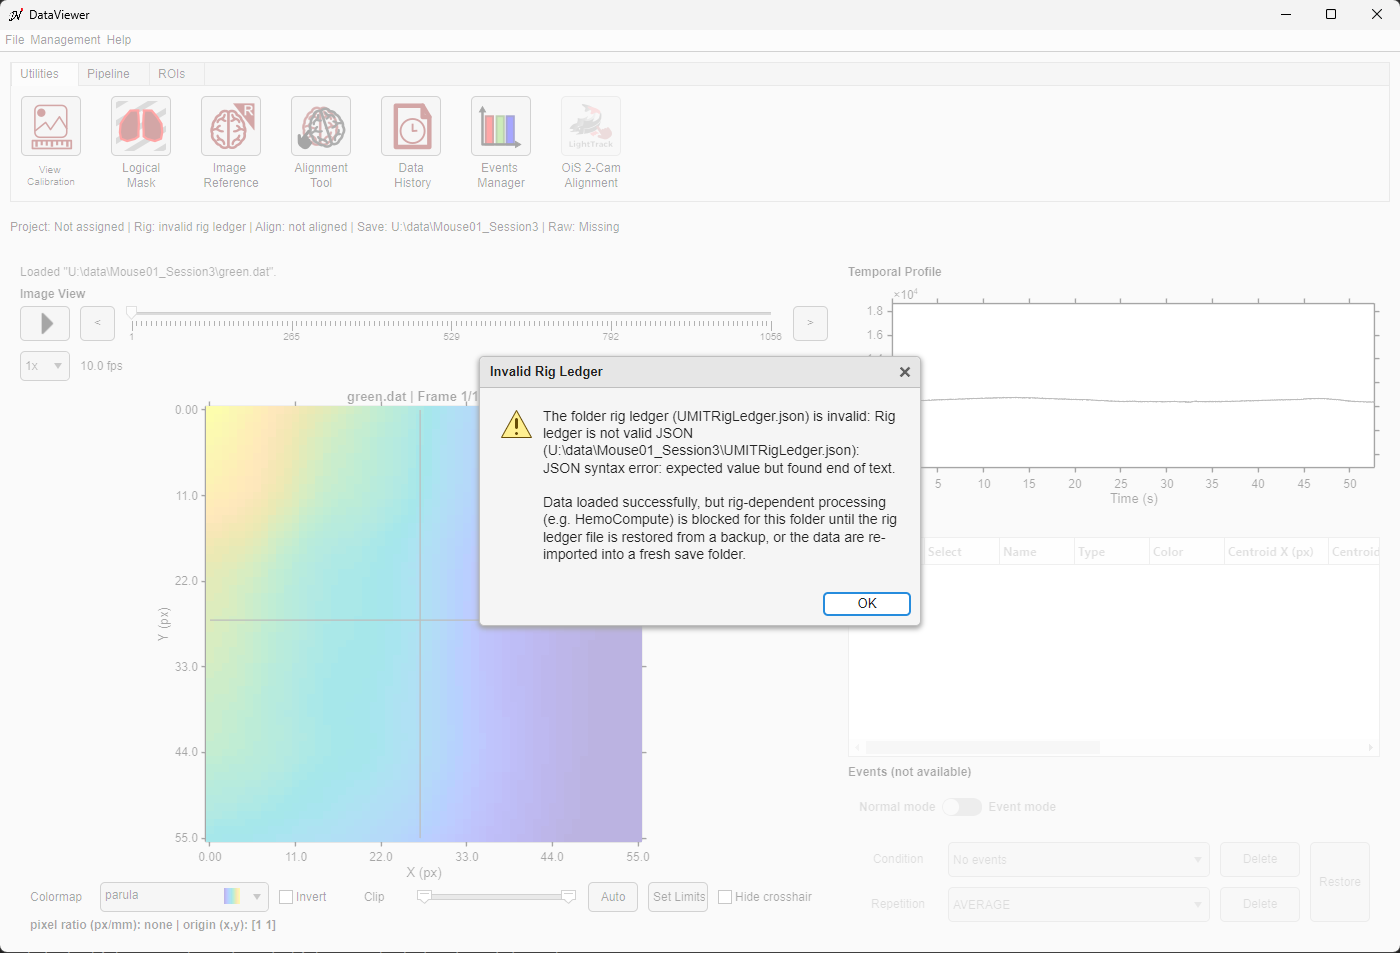
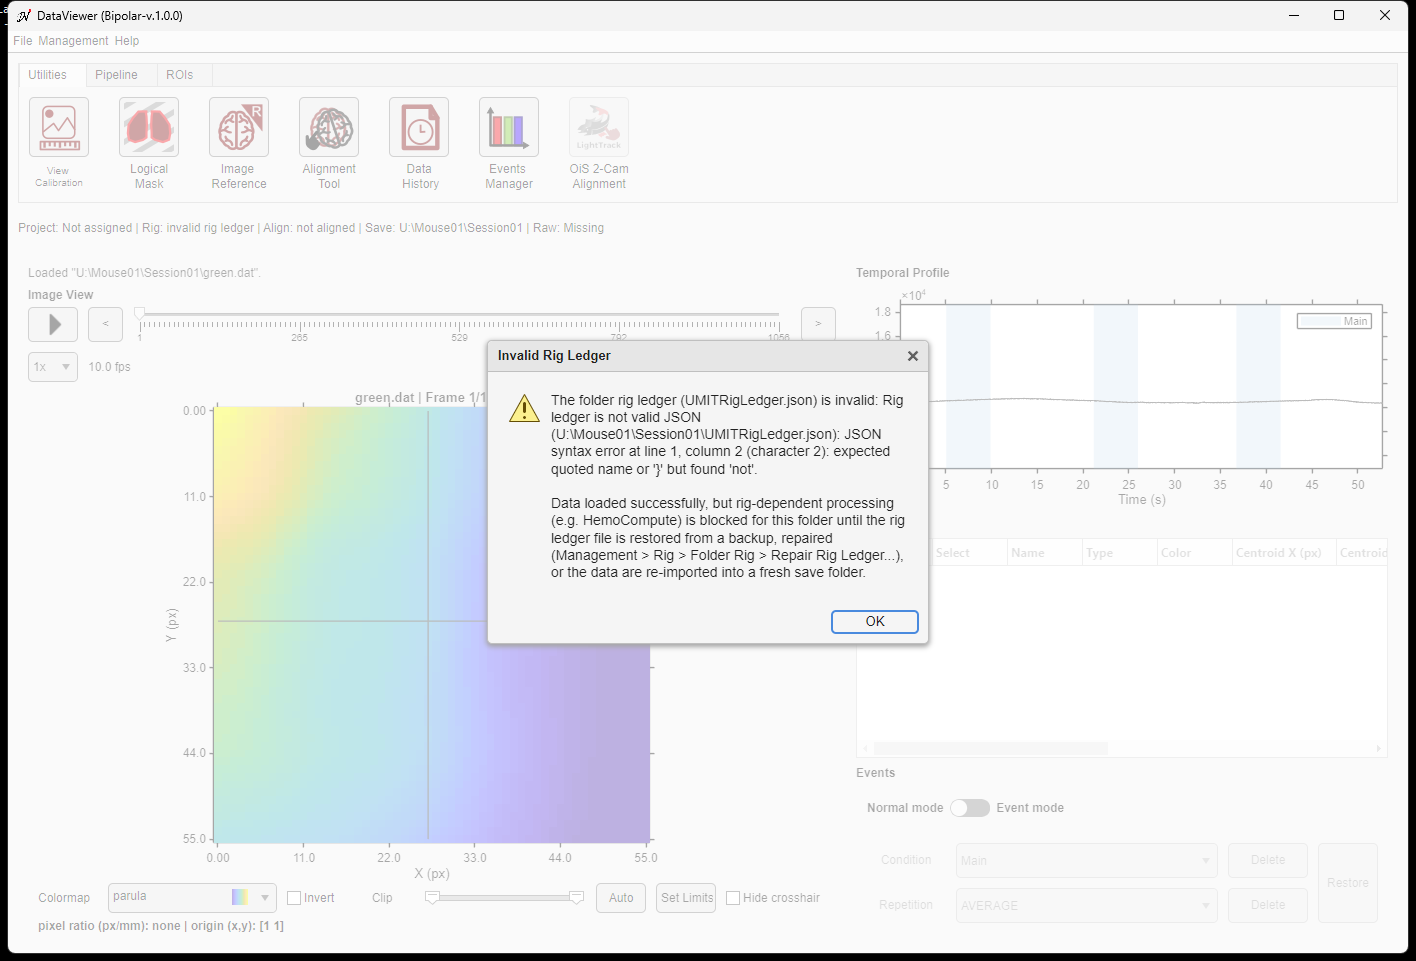
docs(userdocs): document the Repair Rig Ledger workflow
Describe how to repair an invalid folder rig ledger from DataViewer
(Management > Rig > Folder Rig > Repair Rig Ledger...): the three ways
out of an invalid ledger, the dialog, the renamed UMITRigLedger.invalid_*
file, and what a repair loses. Update the Folder Rig command table, the
DataViewer menu table, the HemoCompute and metadata-file pages, and drop
the statement that there is no repair tool.

New screenshot of the dialog; the invalid-ledger alert and the two
Folder Rig submenu screenshots are retaken because the alert wording
changed and the submenu has a fourth item.

diff --git a/docs/documentation/userDocs/apps/folder-rig.html b/docs/documentation/userDocs/apps/folder-rig.html
@@ -21,10 +21,11 @@ nav_order: 7
 <tr><td><samp>[had conflict]</samp></td><td>A permanent mark: the folder had a rig conflict at some point. The details are in the Rig Ledger History.</td></tr>
 <tr><td><samp>invalid rig ledger</samp></td><td>The ledger file is damaged or was edited by hand (see below).</td></tr></table>
 <h2>Management &gt; Rig &gt; Folder Rig</h2>
-<p style="text-align:center"><img src="../../assets/img/current/dataviewer-folder-rig-menu-conflict.png" alt="DataViewer Management, Rig, Folder Rig submenu with Bind / Rebind Rig, Acknowledge Rig Conflict and Rig Ledger History, on a conflicted folder" width="880"><br><em>The Folder Rig submenu on a folder in conflict: all three commands are available.</em></p>
+<p style="text-align:center"><img src="../../assets/img/current/dataviewer-folder-rig-menu-conflict.png" alt="DataViewer Management, Rig, Folder Rig submenu with Bind / Rebind Rig, Acknowledge Rig Conflict, Repair Rig Ledger and Rig Ledger History, on a conflicted folder" width="880"><br><em>The Folder Rig submenu on a folder in conflict: Bind / Rebind Rig, Acknowledge Rig Conflict and Rig Ledger History are available; Repair Rig Ledger is greyed out because the ledger is valid.</em></p>
 <table><tr><th>Command</th><th>Available when</th><th>Effect</th></tr>
 <tr><td><strong>Bind / Rebind Rig...</strong></td><td>Data are loaded</td><td>Binds the folder to a rig of the library, or changes its rig (see below).</td></tr>
 <tr><td><strong>Acknowledge Rig Conflict...</strong></td><td>The folder is in conflict</td><td>Accepts the current rig for the folder (see below).</td></tr>
+<tr><td><strong>Repair Rig Ledger...</strong></td><td>The rig ledger is invalid</td><td>Moves the invalid ledger file aside so that a rig can be bound again (see <a href="#invalid-rig-ledger">Invalid rig ledger</a>).</td></tr>
 <tr><td><strong>Rig Ledger History...</strong></td><td>The folder has a rig ledger</td><td>Shows every event recorded in the ledger, read-only.</td></tr></table>
 <h3>Bind or rebind a rig</h3>
 <ol>
@@ -47,7 +48,21 @@ nav_order: 7
 <h3>Rig Ledger History</h3>
 <p>The history lists the folder, its state and bound rig, then one line per event: <samp>noRig</samp> (imported without a rig), <samp>bind</samp>, <samp>rebind</samp> (with what changed in the optics and the coregistration), <samp>commit</samp> (which part was committed, and by which step), <samp>conflict</samp>, <samp>acknowledgeConflict</samp> (with its comment) and <samp>freshImport</samp> (a re-import reset the commitments). Rigs are named as they were recorded, so the history reads the same on a computer whose library does not have them.</p>
 <p style="text-align:center"><img src="../../assets/img/current/dataviewer-rig-ledger-history.png" alt="Rig Ledger History dialog listing bind, commit, rebind, conflict and acknowledgeConflict events" width="880"><br><em>The history of a folder that was bound to Rig A, used by HemoCompute, rebound to Rig B and acknowledged.</em></p>
-<h3>Invalid rig ledger</h3>
-<p>If the ledger file is damaged or was edited by hand, <em>DataViewer</em> still loads the data and shows the alert <strong>Invalid Rig Ledger</strong>. Rig-dependent processing (for example <em>HemoCompute</em>) is then refused for the folder. There is no repair tool: restore <samp>UMITRigLedger.json</samp> from a backup, or re-import the raw data into a fresh Save Folder.</p>
+<h3 id="invalid-rig-ledger">Invalid rig ledger</h3>
+<p>If the ledger file is damaged or was edited by hand, <em>DataViewer</em> still loads the data and shows the alert <strong>Invalid Rig Ledger</strong>. Rig-dependent processing (for example <em>HemoCompute</em>) is then refused for the folder, and so is a new import into the same Save Folder. You have three ways out:</p>
+<ul>
+<li>restore <samp>UMITRigLedger.json</samp> from a backup copy of the folder;</li>
+<li>re-import the raw data into a fresh Save Folder;</li>
+<li>repair the ledger with <strong>Management &gt; Rig &gt; Folder Rig &gt; Repair Rig Ledger...</strong> (below).</li>
+</ul>
 <p style="text-align:center"><img src="../../assets/img/current/dataviewer-invalid-rig-ledger-alert.png" alt="DataViewer Invalid Rig Ledger alert saying that data loaded but rig-dependent processing is blocked" width="880"><br><em>The alert shown when the folder's rig ledger cannot be read.</em></p>
+<h3>Repair a rig ledger</h3>
+<p>While the ledger is invalid, <strong>Repair Rig Ledger...</strong> is the only enabled command of the Folder Rig submenu: <em>Bind / Rebind Rig</em>, <em>Acknowledge Rig Conflict</em> and <em>Rig Ledger History</em> need a readable ledger and are disabled. The command opens a dialog that lists what is wrong with the file, what repairing does, what is lost, and the other options.</p>
+<p style="text-align:center"><img src="../../assets/img/current/dataviewer-repair-rig-ledger-dialog.png" alt="Repair Rig Ledger dialog listing the integrity problem, what repairing does, what is lost and the other options, with Repair and Cancel buttons" width="600"><br><em>The Repair Rig Ledger dialog for a ledger that is not valid JSON.</em></p>
+<ol>
+<li>Read the problem and the consequences, then choose <strong>Repair</strong> (or <strong>Cancel</strong>: nothing changes).</li>
+<li>The invalid file is <em>renamed</em>, in the same folder, to <samp>UMITRigLedger.invalid_&lt;date&gt;T&lt;time&gt;.json</samp>. Nothing is edited or deleted: the file is kept as it was, byte for byte, and a later repair never overwrites it. A new import into the folder does not delete it either.</li>
+<li>The folder now has no rig ledger: its rig is <samp>unknown (no rig ledger)</samp>. Bind a rig again with <strong>Bind / Rebind Rig...</strong>; this starts a new ledger with a fresh history.</li>
+</ol>
+<div class="warnnote"><p><strong>What a repair loses</strong><br>The folder loses its rig commitments (the optics, camera coregistration and filter sets it had used) and its conflict history. Results computed before are not recomputed, and a change of rig made while the ledger was invalid cannot be detected for them. If the folder matters for a publication, restore the ledger from a backup instead.</p></div>
 </body></html>

diff --git a/docs/documentation/userDocs/other/mat-files-organization.html b/docs/documentation/userDocs/other/mat-files-organization.html
@@ -67,7 +67,7 @@ nav_order: 2
 <li><b>Events</b>: an append-only list of what happened to the folder: imported without a rig, bound or rebound to a rig, a part committed by its first use, a conflict, an acknowledged conflict, a fresh import. Entries are never removed or rewritten. The <a href="../apps/folder-rig.html">Rig Ledger History</a> shows them.</li>
 </ul>
 <p>The folder states read from the ledger are: no ledger (<em>unknown</em>), <em>no rig</em>, bound (with or without committed parts), <em>conflict</em>, and <em>invalid</em>. They are explained in <a href="../apps/folder-rig.html">DataViewer: Folder rig</a>. Reading the ledger never changes it; opening data does not create one.</p>
-<div class="warnnote"><p><strong>Never edit UMITRigLedger.json by hand</strong><br>Every snapshot is checked against its content when the ledger is read. An edited or damaged ledger is <em>invalid</em>: the data still open, but rig-dependent processing is refused for the folder. There is no repair tool. Restore the file from a backup, or re-import the raw data into a fresh Save Folder. An import into the same folder is refused while its rig ledger is invalid.</p></div>
+<div class="warnnote"><p><strong>Never edit UMITRigLedger.json by hand</strong><br>Every snapshot is checked against its content when the ledger is read. An edited or damaged ledger is <em>invalid</em>: the data still open, but rig-dependent processing is refused for the folder. Restore the file from a backup, re-import the raw data into a fresh Save Folder, or use <a href="../apps/folder-rig.html#invalid-rig-ledger">Repair Rig Ledger</a> in <em>DataViewer</em>, which moves the invalid file aside as <samp>UMITRigLedger.invalid_&lt;date&gt;T&lt;time&gt;.json</samp> (kept unchanged) so that a rig can be bound again; the folder then loses its rig commitments. An import into the same folder is refused while its rig ledger is invalid.</p></div>
 
 <h2 id="umitprojectledger-json">UMITProjectLedger.json</h2>
 <p>A folder bound to a project keeps a project ledger, a JSON text file with the folder's binding (project, subject and session identifiers and the folder role, <samp>rawDataFolder</samp> or <samp>processedDataFolder</samp>) and an append-only list of binding events: bind, rebind, unbind (with its reason, for example the session was removed), orphan removal and fresh import. Each bind or rebind keeps a copy of the project's names at that time, so the history reads the same when the project is not available. The file stays when a folder is unbound, so its history survives; such a folder reads as unbound.</p>

diff --git a/docs/documentation/userDocs/fcns/HemoCompute.html b/docs/documentation/userDocs/fcns/HemoCompute.html
@@ -61,7 +61,7 @@ grand_parent: Functions
       <li>has no rig ledger (<samp>Umitoolbox:RigLedger:noLedger</samp>), for example a folder imported by an earlier release;</li>
       <li>is recorded as "no rig" (<samp>Umitoolbox:RigLedger:noRigBound</samp>), for example a single-camera import that was never bound;</li>
       <li>is in a rig conflict (<samp>Umitoolbox:RigLedger:conflicted</samp>);</li>
-      <li>has an invalid rig ledger (<samp>Umitoolbox:RigLedger:invalidLedger</samp>).</li>
+      <li>has an invalid rig ledger (<samp>Umitoolbox:RigLedger:invalidLedger</samp>); see <a href="../apps/folder-rig.html#invalid-rig-ledger">Invalid rig ledger</a> for the ways out, including <em>Repair Rig Ledger</em>.</li>
     </ul>
     <p>The error message says why the folder was refused and how to fix it: bind a rig with <a href="../apps/folder-rig.html">DataViewer's Management &gt; Rig &gt; Folder Rig</a> menu, resolve the conflict there, or start again from a fresh save folder. A pipeline runs the same checks before it starts (preflight): a folder that fails them is skipped and logged, and the other folders are processed.</p>
     <p>After a successful computation, HemoCompute <b>commits</b> the optics and the filter set it used to the folder's rig ledger (the first time only). From then on the folder keeps using those optics: rebinding it to a rig whose optics differ creates a rig conflict, and editing the filter set in the rig library under the same name makes HemoCompute refuse the folder (<samp>Umitoolbox:RigLedger:filterSetModified</samp>; save the edited filter set under a new name instead). Editing or archiving the library rig afterwards has no effect on the folder.</p>

diff --git a/docs/documentation/userDocs/apps/user-interface.html b/docs/documentation/userDocs/apps/user-interface.html
@@ -30,6 +30,7 @@ nav_order: 2
 <tr><td><strong>Management &gt; Project &gt; Add Folder Reference to Library...</strong></td><td>The folder is bound to a project session</td><td>Offers to add the folder's alignment reference to the subject's reference library.</td></tr>
 <tr><td><strong>Management &gt; Rig &gt; Folder Rig &gt; Bind / Rebind Rig...</strong></td><td>Data is loaded</td><td>Binds the Save Folder to a rig of the library, or changes its rig. See <a href="folder-rig.html">Folder rig</a>.</td></tr>
 <tr><td><strong>Management &gt; Rig &gt; Folder Rig &gt; Acknowledge Rig Conflict...</strong></td><td>The folder is in a rig conflict</td><td>Accepts the current rig for the folder, with an optional comment.</td></tr>
+<tr><td><strong>Management &gt; Rig &gt; Folder Rig &gt; Repair Rig Ledger...</strong></td><td>The folder's rig ledger is invalid</td><td>Moves the invalid ledger file aside so that a rig can be bound again. See <a href="folder-rig.html#invalid-rig-ledger">Folder rig</a>.</td></tr>
 <tr><td><strong>Management &gt; Rig &gt; Folder Rig &gt; Rig Ledger History...</strong></td><td>The folder has a rig ledger</td><td>Shows the rig history of the folder, read-only.</td></tr>
 <tr><td><strong>Management &gt; Rig &gt; Rig Manager...</strong></td><td>Always</td><td>Opens the full rig-administration interface (the rig library).</td></tr>
 <tr><td><strong>Help &gt; Online documentation</strong></td><td>Always</td><td>Opens the documentation site.</td></tr></table>
